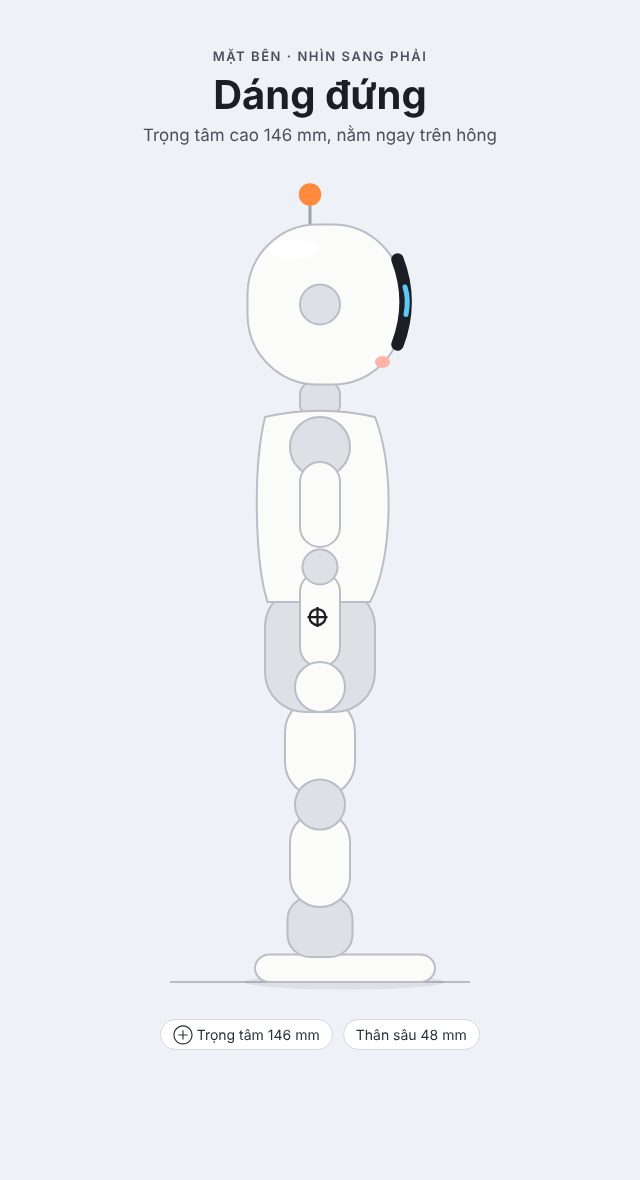
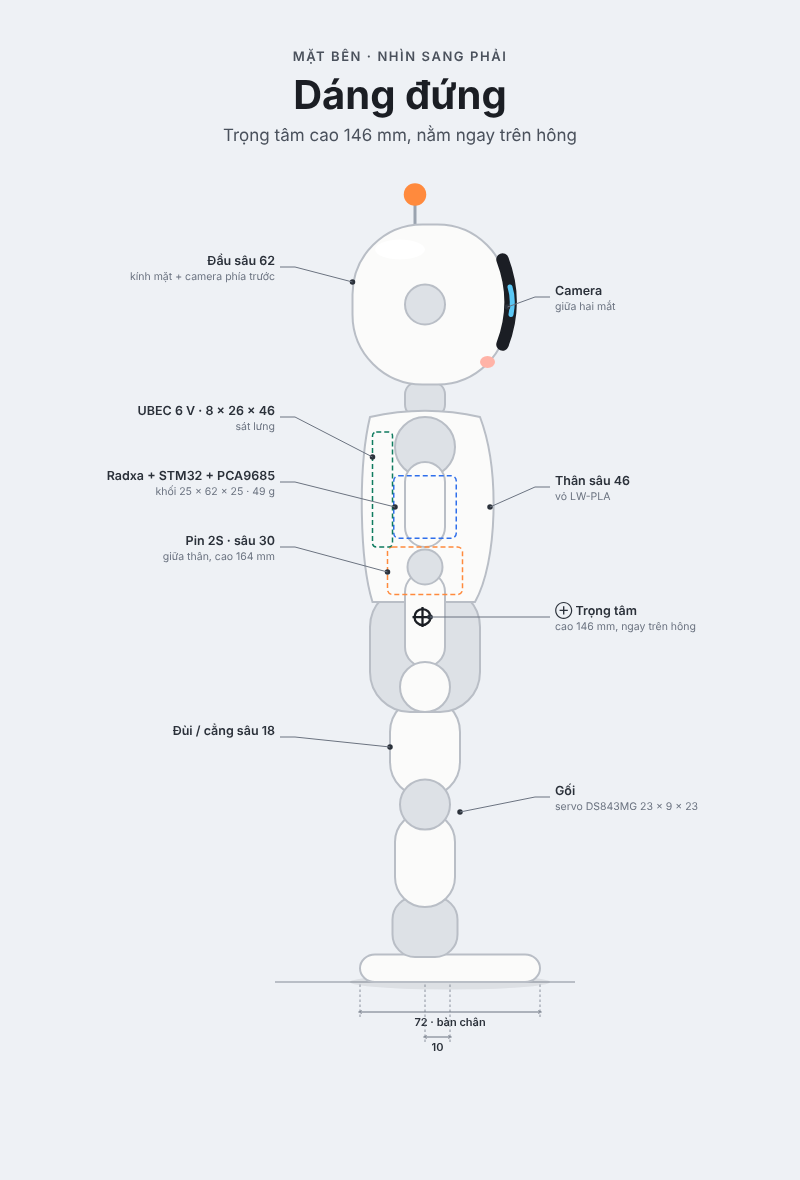
docs(design): add part dimensions to front and side sketches

diff --git a/docs/design/sketch_shell_a/Main.dc.html b/docs/design/sketch_shell_a/Main.dc.html
@@ -15,13 +15,13 @@ body{margin:0}
 a{color:#2F6FEB}a:hover{color:#1E4FB8}
 </style>
 </helmet>
-<div style="width: 960px; height: 1180px; box-sizing: border-box; padding: 48px 56px; background: #EEF1F5; display: flex; flex-direction: column; align-items: center; gap: 12px; font-family: Inter, system-ui, sans-serif; color: #1B1E24">
+<div style="width: 1240px; height: 1180px; box-sizing: border-box; padding: 48px 56px; background: #EEF1F5; display: flex; flex-direction: column; align-items: center; gap: 12px; font-family: Inter, system-ui, sans-serif; color: #1B1E24">
 <div style="display: flex; flex-direction: column; align-items: center; gap: 6px">
 <p style="margin: 0; font-size: 13px; font-weight: 600; letter-spacing: 0.12em; color: #4A515C">PHÁC THẢO · VỎ A · v0.5</p>
 <h1 style="margin: 0; font-family: 'Space Grotesk', Inter, sans-serif; font-size: 52px; font-weight: 700; letter-spacing: -0.01em">Mini Humanoid</h1>
-<p style="margin: 0; font-size: 17px; color: #4A515C">20 DoF · cao 303 mm · nặng 481 g · đúng tỉ lệ mô hình mô phỏng</p>
+<p style="margin: 0; font-size: 17px; color: #4A515C">20 DoF · cao 303 mm · nặng 481 g · kích thước mm, lấy từ mô hình mô phỏng</p>
 </div>
-<svg viewBox="-100 0 200 340" width="500" height="850" role="img" aria-label="Robot humanoid mini nhìn từ phía trước: đầu tròn to, kính mặt đen với hai mắt xanh, ăng-ten có đèn, thân bụng tròn, tay chân bo tròn">
+<svg viewBox="-200 0 440 360" width="1100" height="900" role="img" aria-label="Robot humanoid mini nhìn từ phía trước: đầu tròn to, kính mặt đen với hai mắt xanh, ăng-ten có đèn, thân bụng tròn, tay chân bo tròn">
 <line x1="-90" x2="90" y1="330" y2="330" stroke="#B9BEC6" stroke-width="0.8"></line>
 <ellipse cx="0" cy="330" rx="56" ry="3.2" fill="#1B1E24" fill-opacity="0.08"></ellipse>
 <rect x="1" y="319" width="42" height="11" rx="6" fill="{{shell}}" stroke="#B9BEC6" stroke-width="0.8"></rect>
@@ -65,16 +65,10 @@ a{color:#2F6FEB}a:hover{color:#1E4FB8}
 <circle cx="0" cy="68" r="3" fill="none" stroke="{{eye}}" stroke-width="1"></circle>
 <ellipse cx="25" cy="82" rx="5" ry="2.6" fill="#FFB3A7"></ellipse>
 <ellipse cx="-25" cy="82" rx="5" ry="2.6" fill="#FFB3A7"></ellipse>
-</svg>
-<div style="display: flex; flex-wrap: wrap; justify-content: center; gap: 10px; font-size: 14px; color: #2B313A">
-<span style="padding: 6px 12px; border-radius: 999px; background: #FFFFFF; border: 1px solid #D5DAE1">Đầu 74 × 62 × 64 mm</span>
-<span style="padding: 6px 12px; border-radius: 999px; background: #FFFFFF; border: 1px solid #D5DAE1">Rộng 122 mm qua hai bàn tay</span>
-<span style="padding: 6px 12px; border-radius: 999px; background: #FFFFFF; border: 1px solid #D5DAE1">Bàn chân 72 × 42 mm</span>
-<span style="padding: 6px 12px; border-radius: 999px; background: #FFFFFF; border: 1px solid #D5DAE1">Camera giữa hai mắt</span>
-</div>
+<g font-family="Inter, sans-serif"><defs><marker id="ar" viewBox="0 0 6 6" refX="3" refY="3" markerWidth="4" markerHeight="4" orient="auto-start-reverse"><path d="M0,0.6 L5.4,3 L0,5.4" fill="none" stroke="#6B7380" stroke-width="0.9"></path></marker></defs><rect x="-28" y="156" width="56" height="19" rx="2" fill="none" stroke="#FF8A3D" stroke-width="0.6" stroke-dasharray="2 1.2"></rect><circle cx="-37" cy="47" r="1.1" fill="#2B313A"></circle><polyline points="-37,47 -92,44 -98,44" fill="none" stroke="#6B7380" stroke-width="0.4"></polyline><text x="-100" y="43" text-anchor="end" font-size="5" font-weight="600" fill="#2B313A">Đầu 74 × 62 × 64</text><text x="-100" y="49" text-anchor="end" font-size="4.2" fill="#6B7380">vỏ A, LW-PLA · 14 g</text><circle cx="-36" cy="128" r="1.1" fill="#2B313A"></circle><polyline points="-36,128 -92,112 -98,112" fill="none" stroke="#6B7380" stroke-width="0.4"></polyline><text x="-100" y="111" text-anchor="end" font-size="5" font-weight="600" fill="#2B313A">Thân 74 × 46 × 72</text><text x="-100" y="117" text-anchor="end" font-size="4.2" fill="#6B7380">vỏ ngực · 20 g</text><circle cx="-28" cy="166" r="1.1" fill="#2B313A"></circle><polyline points="-28,166 -92,152 -98,152" fill="none" stroke="#6B7380" stroke-width="0.4"></polyline><text x="-100" y="151" text-anchor="end" font-size="5" font-weight="600" fill="#2B313A">Pin 2S 56 × 30 × 19</text><text x="-100" y="157" text-anchor="end" font-size="4.2" fill="#6B7380">nằm giữa, ngay trên hông · 57 g</text><circle cx="-34" cy="197" r="1.1" fill="#2B313A"></circle><polyline points="-34,197 -92,192 -98,192" fill="none" stroke="#6B7380" stroke-width="0.4"></polyline><text x="-100" y="191" text-anchor="end" font-size="5" font-weight="600" fill="#2B313A">Hông 68 × 40 × 36</text><text x="-100" y="197" text-anchor="end" font-size="4.2" fill="#6B7380">khung giữ 2 servo hông yaw</text><circle cx="-34" cy="236" r="1.1" fill="#2B313A"></circle><polyline points="-34,236 -92,232 -98,232" fill="none" stroke="#6B7380" stroke-width="0.4"></polyline><text x="-100" y="231" text-anchor="end" font-size="5" font-weight="600" fill="#2B313A">Đùi 18 × 18 · khâu 45</text><text x="-100" y="237" text-anchor="end" font-size="4.2" fill="#6B7380">hông pitch → gối</text><circle cx="-30" cy="281" r="1.1" fill="#2B313A"></circle><polyline points="-30,281 -92,272 -98,272" fill="none" stroke="#6B7380" stroke-width="0.4"></polyline><text x="-100" y="271" text-anchor="end" font-size="5" font-weight="600" fill="#2B313A">Cẳng 18 × 18 · khâu 45</text><text x="-100" y="277" text-anchor="end" font-size="4.2" fill="#6B7380">gối → cổ chân pitch</text><circle cx="-34" cy="308" r="1.1" fill="#2B313A"></circle><polyline points="-34,308 -92,302 -98,302" fill="none" stroke="#6B7380" stroke-width="0.4"></polyline><text x="-100" y="301" text-anchor="end" font-size="5" font-weight="600" fill="#2B313A">Cụm cổ chân</text><text x="-100" y="307" text-anchor="end" font-size="4.2" fill="#6B7380">2 servo, trục giao nhau tại A</text><circle cx="-41" cy="325" r="1.1" fill="#2B313A"></circle><polyline points="-41,325 -92,330 -98,330" fill="none" stroke="#6B7380" stroke-width="0.4"></polyline><text x="-100" y="329" text-anchor="end" font-size="5" font-weight="600" fill="#2B313A">Bàn chân 72 × 42 × 8</text><text x="-100" y="335" text-anchor="end" font-size="4.2" fill="#6B7380">lệch về trước 10 mm · 12 g</text><circle cx="55" cy="110" r="1.1" fill="#2B313A"></circle><polyline points="55,110 92,90 98,90" fill="none" stroke="#6B7380" stroke-width="0.4"></polyline><text x="100" y="89" text-anchor="start" font-size="5" font-weight="600" fill="#2B313A">Vai pitch</text><text x="100" y="95" text-anchor="start" font-size="4.2" fill="#6B7380">tâm cách nhau 80 mm</text><circle cx="59" cy="140" r="1.1" fill="#2B313A"></circle><polyline points="59,140 92,128 98,128" fill="none" stroke="#6B7380" stroke-width="0.4"></polyline><text x="100" y="127" text-anchor="start" font-size="5" font-weight="600" fill="#2B313A">Cánh tay trên 16 × 16 × 36</text><text x="100" y="133" text-anchor="start" font-size="4.2" fill="#6B7380">khâu vai → khuỷu 50</text><circle cx="59" cy="186" r="1.1" fill="#2B313A"></circle><polyline points="59,186 92,170 98,170" fill="none" stroke="#6B7380" stroke-width="0.4"></polyline><text x="100" y="169" text-anchor="start" font-size="5" font-weight="600" fill="#2B313A">Cẳng tay 14 × 14 × 38</text><text x="100" y="175" text-anchor="start" font-size="4.2" fill="#6B7380">khâu khuỷu → cổ tay 44</text><circle cx="61" cy="214" r="1.1" fill="#2B313A"></circle><polyline points="61,214 92,226 98,226" fill="none" stroke="#6B7380" stroke-width="0.4"></polyline><text x="100" y="225" text-anchor="start" font-size="5" font-weight="600" fill="#2B313A">Bàn tay 14 × 14 × 14</text><text x="100" y="231" text-anchor="start" font-size="4.2" fill="#6B7380"></text><circle cx="9" cy="97" r="1.1" fill="#2B313A"></circle><polyline points="9,97 92,68 98,68" fill="none" stroke="#6B7380" stroke-width="0.4"></polyline><text x="100" y="67" text-anchor="start" font-size="5" font-weight="600" fill="#2B313A">Cổ 16 × 16 × 10</text><text x="100" y="73" text-anchor="start" font-size="4.2" fill="#6B7380">cổ yaw tại 225, đầu pitch +22</text><line x1="170" x2="170" y1="27" y2="330" stroke="#6B7380" stroke-width="0.4"></line><line x1="70" x2="172" y1="27" y2="27" stroke="#6B7380" stroke-width="0.3" stroke-dasharray="1 1.2"></line><line x1="168.4" x2="171.6" y1="28.6" y2="25.4" stroke="#2B313A" stroke-width="0.6"></line><text x="175" y="28.6" font-size="4.8" fill="#2B313A"><tspan font-weight="700">303</tspan><tspan fill="#6B7380"> · đỉnh đầu</tspan></text><line x1="70" x2="172" y1="83" y2="83" stroke="#6B7380" stroke-width="0.3" stroke-dasharray="1 1.2"></line><line x1="168.4" x2="171.6" y1="84.6" y2="81.4" stroke="#2B313A" stroke-width="0.6"></line><text x="175" y="84.6" font-size="4.8" fill="#2B313A"><tspan font-weight="700">247</tspan><tspan fill="#6B7380"> · trục gật đầu</tspan></text><line x1="70" x2="172" y1="105" y2="105" stroke="#6B7380" stroke-width="0.3" stroke-dasharray="1 1.2"></line><line x1="168.4" x2="171.6" y1="106.6" y2="103.4" stroke="#2B313A" stroke-width="0.6"></line><text x="175" y="106.6" font-size="4.8" fill="#2B313A"><tspan font-weight="700">225</tspan><tspan fill="#6B7380"> · trục cổ</tspan></text><line x1="70" x2="172" y1="118" y2="118" stroke="#6B7380" stroke-width="0.3" stroke-dasharray="1 1.2"></line><line x1="168.4" x2="171.6" y1="119.6" y2="116.4" stroke="#2B313A" stroke-width="0.6"></line><text x="175" y="119.6" font-size="4.8" fill="#2B313A"><tspan font-weight="700">212</tspan><tspan fill="#6B7380"> · trục vai</tspan></text><line x1="70" x2="172" y1="215" y2="215" stroke="#6B7380" stroke-width="0.3" stroke-dasharray="1 1.2"></line><line x1="168.4" x2="171.6" y1="216.6" y2="213.4" stroke="#2B313A" stroke-width="0.6"></line><text x="175" y="216.6" font-size="4.8" fill="#2B313A"><tspan font-weight="700">115</tspan><tspan fill="#6B7380"> · H · 3 trục hông</tspan></text><line x1="70" x2="172" y1="260" y2="260" stroke="#6B7380" stroke-width="0.3" stroke-dasharray="1 1.2"></line><line x1="168.4" x2="171.6" y1="261.6" y2="258.4" stroke="#2B313A" stroke-width="0.6"></line><text x="175" y="261.6" font-size="4.8" fill="#2B313A"><tspan font-weight="700">70</tspan><tspan fill="#6B7380"> · gối</tspan></text><line x1="70" x2="172" y1="305" y2="305" stroke="#6B7380" stroke-width="0.3" stroke-dasharray="1 1.2"></line><line x1="168.4" x2="171.6" y1="306.6" y2="303.4" stroke="#2B313A" stroke-width="0.6"></line><text x="175" y="306.6" font-size="4.8" fill="#2B313A"><tspan font-weight="700">25</tspan><tspan fill="#6B7380"> · A · 2 trục cổ chân</tspan></text><line x1="70" x2="172" y1="330" y2="330" stroke="#6B7380" stroke-width="0.3" stroke-dasharray="1 1.2"></line><line x1="168.4" x2="171.6" y1="331.6" y2="328.4" stroke="#2B313A" stroke-width="0.6"></line><text x="175" y="331.6" font-size="4.8" fill="#2B313A"><tspan font-weight="700">0</tspan><tspan fill="#6B7380"> · sàn</tspan></text><text x="167" y="56.5" text-anchor="end" font-size="4" fill="#C2410C" font-weight="600">56</text><text x="167" y="95.5" text-anchor="end" font-size="4" fill="#C2410C" font-weight="600">22</text><text x="167" y="168.0" text-anchor="end" font-size="4" fill="#C2410C" font-weight="600">97</text><text x="167" y="239.0" text-anchor="end" font-size="4" fill="#C2410C" font-weight="600">45</text><text x="167" y="284.0" text-anchor="end" font-size="4" fill="#C2410C" font-weight="600">45</text><text x="167" y="319.0" text-anchor="end" font-size="4" fill="#C2410C" font-weight="600">25</text><line x1="1" x2="1" y1="331" y2="344" stroke="#6B7380" stroke-width="0.3" stroke-dasharray="1 1"></line><line x1="43" x2="43" y1="331" y2="344" stroke="#6B7380" stroke-width="0.3" stroke-dasharray="1 1"></line><line x1="1" x2="43" y1="342" y2="342" stroke="#6B7380" stroke-width="0.4" marker-start="url(#ar)" marker-end="url(#ar)"></line><text x="22.0" y="347.5" text-anchor="middle" font-size="4.4" font-weight="600" fill="#2B313A">42</text><line x1="-22" x2="-22" y1="310" y2="354" stroke="#6B7380" stroke-width="0.3" stroke-dasharray="1 1"></line><line x1="22" x2="22" y1="310" y2="354" stroke="#6B7380" stroke-width="0.3" stroke-dasharray="1 1"></line><line x1="-22" x2="22" y1="352" y2="352" stroke="#6B7380" stroke-width="0.4" marker-start="url(#ar)" marker-end="url(#ar)"></line><text x="0.0" y="357.5" text-anchor="middle" font-size="4.4" font-weight="600" fill="#2B313A">44 giữa 2 hông</text></g></svg>
 </div>
 </x-dc>
-<script type="text/x-dc" data-dc-script data-props='{"shell":{"editor":"color","default":"#FBFBFA","options":["#FBFBFA","#F3EFE6","#E9F0F7","#FCE9E2"]},"eye":{"editor":"color","default":"#5BC8F5","options":["#5BC8F5","#7CE0A6","#FFC857","#FF8FB1"]},"$preview":{"width":960,"height":1180}}'>
+<script type="text/x-dc" data-dc-script data-props='{"shell":{"editor":"color","default":"#FBFBFA","options":["#FBFBFA","#F3EFE6","#E9F0F7","#FCE9E2"]},"eye":{"editor":"color","default":"#5BC8F5","options":["#5BC8F5","#7CE0A6","#FFC857","#FF8FB1"]},"$preview":{"width":1240,"height":1180}}'>
 class Component extends DCLogic {
 renderVals() {
 return { shell: this.props.shell ?? '#FBFBFA', eye: this.props.eye ?? '#5BC8F5' };

diff --git a/docs/design/sketch_shell_a/Side.dc.html b/docs/design/sketch_shell_a/Side.dc.html
@@ -15,13 +15,13 @@ body{margin:0}
 a{color:#2F6FEB}a:hover{color:#1E4FB8}
 </style>
 </helmet>
-<div style="width: 640px; height: 1180px; box-sizing: border-box; padding: 48px 40px; background: #EEF1F5; display: flex; flex-direction: column; align-items: center; gap: 12px; font-family: Inter, system-ui, sans-serif; color: #1B1E24">
+<div style="width: 800px; height: 1180px; box-sizing: border-box; padding: 48px 40px; background: #EEF1F5; display: flex; flex-direction: column; align-items: center; gap: 12px; font-family: Inter, system-ui, sans-serif; color: #1B1E24">
 <div style="display: flex; flex-direction: column; align-items: center; gap: 6px">
 <p style="margin: 0; font-size: 13px; font-weight: 600; letter-spacing: 0.12em; color: #4A515C">MẶT BÊN · NHÌN SANG PHẢI</p>
 <h2 style="margin: 0; font-family: 'Space Grotesk', Inter, sans-serif; font-size: 40px; font-weight: 700">Dáng đứng</h2>
 <p style="margin: 0; font-size: 17px; color: #4A515C">Trọng tâm cao 146 mm, nằm ngay trên hông</p>
 </div>
-<svg viewBox="-70 0 140 340" width="350" height="850" role="img" aria-label="Robot humanoid mini nhìn từ bên phải: đầu tròn, kính mặt cong ra trước, thân bụng tròn, tay buông dọc thân, bàn chân dài hướng về trước">
+<svg viewBox="-130 0 240 360" width="600" height="900" role="img" aria-label="Robot humanoid mini nhìn từ bên phải: đầu tròn, kính mặt cong ra trước, thân bụng tròn, tay buông dọc thân, bàn chân dài hướng về trước">
 <line x1="-60" x2="60" y1="330" y2="330" stroke="#B9BEC6" stroke-width="0.8"></line>
 <ellipse cx="10" cy="330" rx="40" ry="3" fill="#1B1E24" fill-opacity="0.08"></ellipse>
 <rect x="-26" y="319" width="72" height="11" rx="6" fill="{{shell}}" stroke="#B9BEC6" stroke-width="0.8"></rect>
@@ -47,14 +47,10 @@ a{color:#2F6FEB}a:hover{color:#1E4FB8}
 <circle cx="0" cy="212" r="10" fill="{{shell}}" stroke="#B9BEC6" stroke-width="0.8"></circle>
 <circle cx="-1" cy="184" r="3.2" fill="none" stroke="#1B1E24" stroke-width="0.9"></circle>
 <path d="M -5 184 H 3 M -1 180 V 188" stroke="#1B1E24" stroke-width="0.9"></path>
-</svg>
-<div style="display: flex; flex-wrap: wrap; justify-content: center; gap: 10px; font-size: 14px; color: #2B313A">
-<span style="padding: 6px 12px; border-radius: 999px; background: #FFFFFF; border: 1px solid #D5DAE1">⊕ Trọng tâm 146 mm</span>
-<span style="padding: 6px 12px; border-radius: 999px; background: #FFFFFF; border: 1px solid #D5DAE1">Thân sâu 48 mm</span>
-</div>
+<g font-family="Inter, sans-serif"><defs><marker id="ar" viewBox="0 0 6 6" refX="3" refY="3" markerWidth="4" markerHeight="4" orient="auto-start-reverse"><path d="M0,0.6 L5.4,3 L0,5.4" fill="none" stroke="#6B7380" stroke-width="0.9"></path></marker></defs><rect x="-15" y="156" width="30" height="19" rx="2" fill="none" stroke="#FF8A3D" stroke-width="0.6" stroke-dasharray="2 1.2"></rect><rect x="-12.5" y="127.5" width="25" height="25" rx="2" fill="none" stroke="#2F6FEB" stroke-width="0.6" stroke-dasharray="2 1.2"></rect><rect x="-21" y="110" width="8" height="46" rx="1.5" fill="none" stroke="#0F7B5F" stroke-width="0.6" stroke-dasharray="2 1.2"></rect><circle cx="-29" cy="50" r="1.1" fill="#2B313A"></circle><polyline points="-29,50 -52,44 -58,44" fill="none" stroke="#6B7380" stroke-width="0.4"></polyline><text x="-60" y="43" text-anchor="end" font-size="5" font-weight="600" fill="#2B313A">Đầu sâu 62</text><text x="-60" y="49" text-anchor="end" font-size="4.2" fill="#6B7380">kính mặt + camera phía trước</text><circle cx="-21" cy="120" r="1.1" fill="#2B313A"></circle><polyline points="-21,120 -52,104 -58,104" fill="none" stroke="#6B7380" stroke-width="0.4"></polyline><text x="-60" y="103" text-anchor="end" font-size="5" font-weight="600" fill="#2B313A">UBEC 6 V · 8 × 26 × 46</text><text x="-60" y="109" text-anchor="end" font-size="4.2" fill="#6B7380">sát lưng</text><circle cx="-12" cy="140" r="1.1" fill="#2B313A"></circle><polyline points="-12,140 -52,130 -58,130" fill="none" stroke="#6B7380" stroke-width="0.4"></polyline><text x="-60" y="129" text-anchor="end" font-size="5" font-weight="600" fill="#2B313A">Radxa + STM32 + PCA9685</text><text x="-60" y="135" text-anchor="end" font-size="4.2" fill="#6B7380">khối 25 × 62 × 25 · 49 g</text><circle cx="-15" cy="166" r="1.1" fill="#2B313A"></circle><polyline points="-15,166 -52,156 -58,156" fill="none" stroke="#6B7380" stroke-width="0.4"></polyline><text x="-60" y="155" text-anchor="end" font-size="5" font-weight="600" fill="#2B313A">Pin 2S · sâu 30</text><text x="-60" y="161" text-anchor="end" font-size="4.2" fill="#6B7380">giữa thân, cao 164 mm</text><circle cx="-14" cy="236" r="1.1" fill="#2B313A"></circle><polyline points="-14,236 -52,232 -58,232" fill="none" stroke="#6B7380" stroke-width="0.4"></polyline><text x="-60" y="231" text-anchor="end" font-size="5" font-weight="600" fill="#2B313A">Đùi / cẳng sâu 18</text><text x="-60" y="237" text-anchor="end" font-size="4.2" fill="#6B7380"></text><circle cx="33" cy="60" r="1.1" fill="#2B313A"></circle><polyline points="33,60 44,56 50,56" fill="none" stroke="#6B7380" stroke-width="0.4"></polyline><text x="52" y="55" text-anchor="start" font-size="5" font-weight="600" fill="#2B313A">Camera</text><text x="52" y="61" text-anchor="start" font-size="4.2" fill="#6B7380">giữa hai mắt</text><circle cx="26" cy="140" r="1.1" fill="#2B313A"></circle><polyline points="26,140 44,132 50,132" fill="none" stroke="#6B7380" stroke-width="0.4"></polyline><text x="52" y="131" text-anchor="start" font-size="5" font-weight="600" fill="#2B313A">Thân sâu 46</text><text x="52" y="137" text-anchor="start" font-size="4.2" fill="#6B7380">vỏ LW-PLA</text><circle cx="2" cy="184" r="1.1" fill="#2B313A"></circle><polyline points="2,184 44,184 50,184" fill="none" stroke="#6B7380" stroke-width="0.4"></polyline><text x="52" y="183" text-anchor="start" font-size="5" font-weight="600" fill="#2B313A">⊕ Trọng tâm</text><text x="52" y="189" text-anchor="start" font-size="4.2" fill="#6B7380">cao 146 mm, ngay trên hông</text><circle cx="14" cy="262" r="1.1" fill="#2B313A"></circle><polyline points="14,262 44,256 50,256" fill="none" stroke="#6B7380" stroke-width="0.4"></polyline><text x="52" y="255" text-anchor="start" font-size="5" font-weight="600" fill="#2B313A">Gối</text><text x="52" y="261" text-anchor="start" font-size="4.2" fill="#6B7380">servo DS843MG 23 × 9 × 23</text><line x1="-26" x2="-26" y1="331" y2="344" stroke="#6B7380" stroke-width="0.3" stroke-dasharray="1 1"></line><line x1="46" x2="46" y1="331" y2="344" stroke="#6B7380" stroke-width="0.3" stroke-dasharray="1 1"></line><line x1="-26" x2="46" y1="342" y2="342" stroke="#6B7380" stroke-width="0.4" marker-start="url(#ar)" marker-end="url(#ar)"></line><text x="10.0" y="347.5" text-anchor="middle" font-size="4.4" font-weight="600" fill="#2B313A">72 · bàn chân</text><line x1="0" x2="0" y1="331" y2="354" stroke="#6B7380" stroke-width="0.3" stroke-dasharray="1 1"></line><line x1="10" x2="10" y1="331" y2="354" stroke="#6B7380" stroke-width="0.3" stroke-dasharray="1 1"></line><line x1="0" x2="10" y1="352" y2="352" stroke="#6B7380" stroke-width="0.4" marker-start="url(#ar)" marker-end="url(#ar)"></line><text x="5.0" y="357.5" text-anchor="middle" font-size="4.4" font-weight="600" fill="#2B313A">10</text></g></svg>
 </div>
 </x-dc>
-<script type="text/x-dc" data-dc-script data-props='{"shell":{"editor":"color","default":"#FBFBFA","options":["#FBFBFA","#F3EFE6","#E9F0F7","#FCE9E2"]},"eye":{"editor":"color","default":"#5BC8F5","options":["#5BC8F5","#7CE0A6","#FFC857","#FF8FB1"]},"$preview":{"width":640,"height":1180}}'>
+<script type="text/x-dc" data-dc-script data-props='{"shell":{"editor":"color","default":"#FBFBFA","options":["#FBFBFA","#F3EFE6","#E9F0F7","#FCE9E2"]},"eye":{"editor":"color","default":"#5BC8F5","options":["#5BC8F5","#7CE0A6","#FFC857","#FF8FB1"]},"$preview":{"width":800,"height":1180}}'>
 class Component extends DCLogic {
 renderVals() {
 return { shell: this.props.shell ?? '#FBFBFA', eye: this.props.eye ?? '#5BC8F5' };
